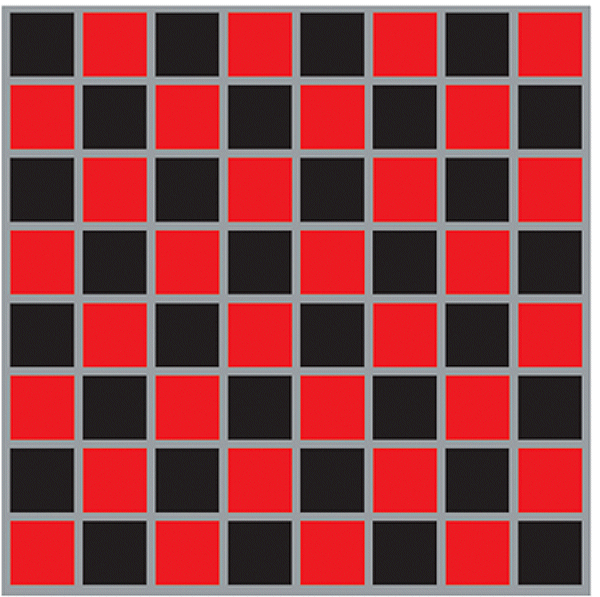
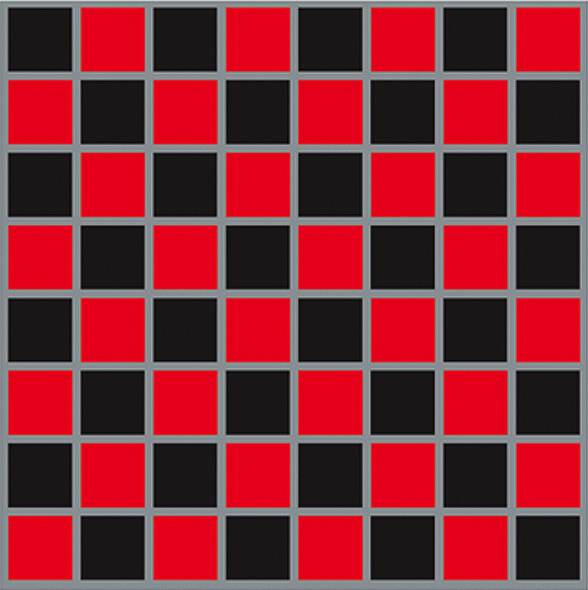
Image has no border now

diff --git a/DoubleJump/public/scripts/main.js b/DoubleJump/public/scripts/main.js
@@ -1,7 +1,9 @@
 // To test the game, change the list of moves, or write
 // a function that runs a test and uses an assertion/etc
 function main() {
-    run_tests();
+    //run_tests();
+    var Game = Game.new();
+    game.start();
 }
 
 window.onload = main;

diff --git a/DoubleJump/public/scripts/game.js b/DoubleJump/public/scripts/game.js
@@ -320,3 +320,4 @@ Game.prototype.loop_manual = function(movelist, verbose) {
             this.print();
     }
 }
+
